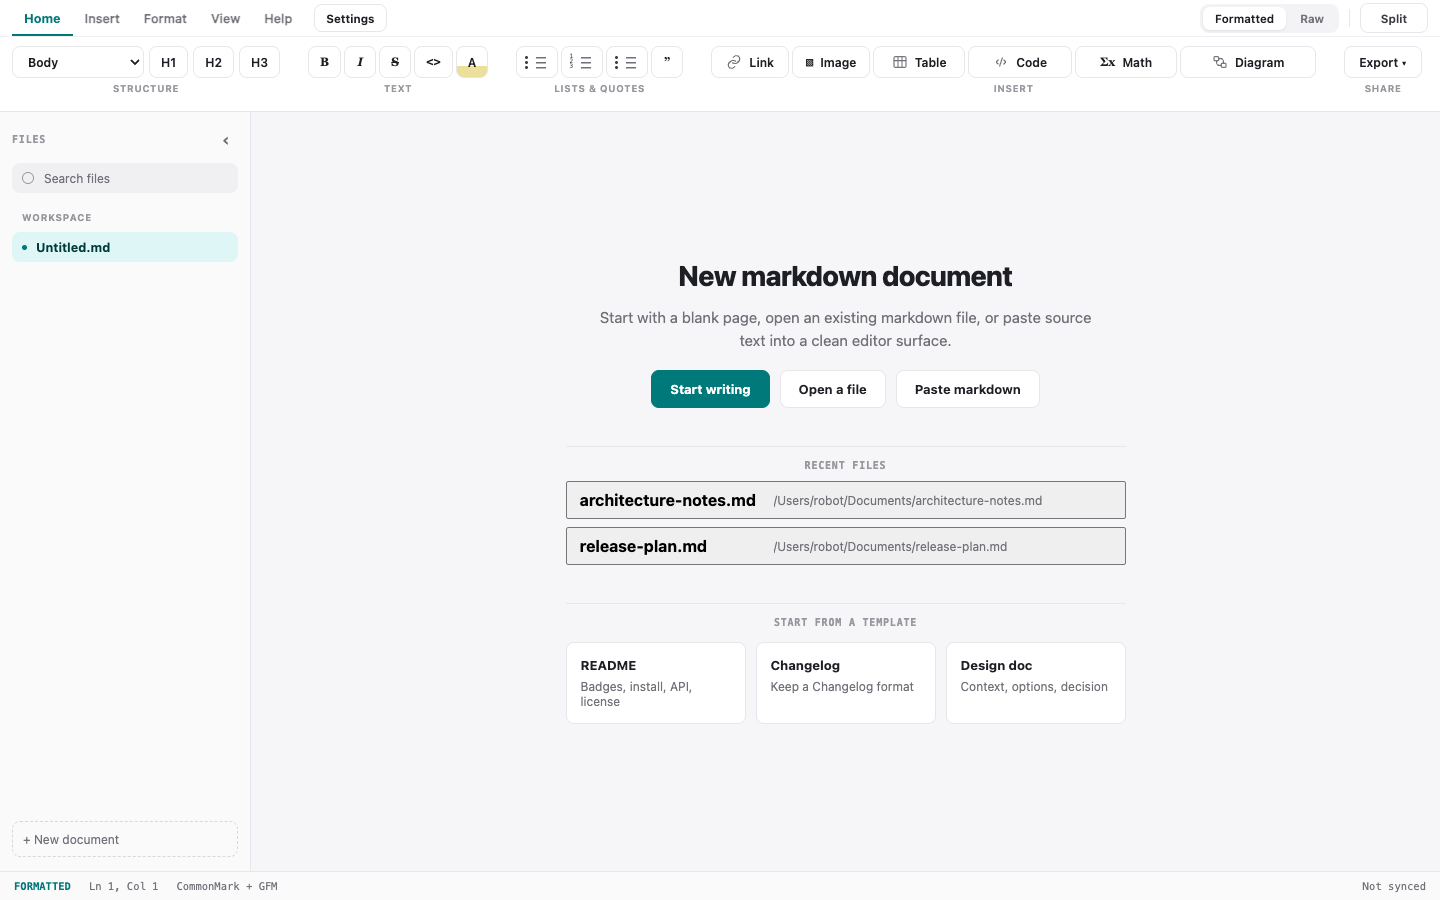
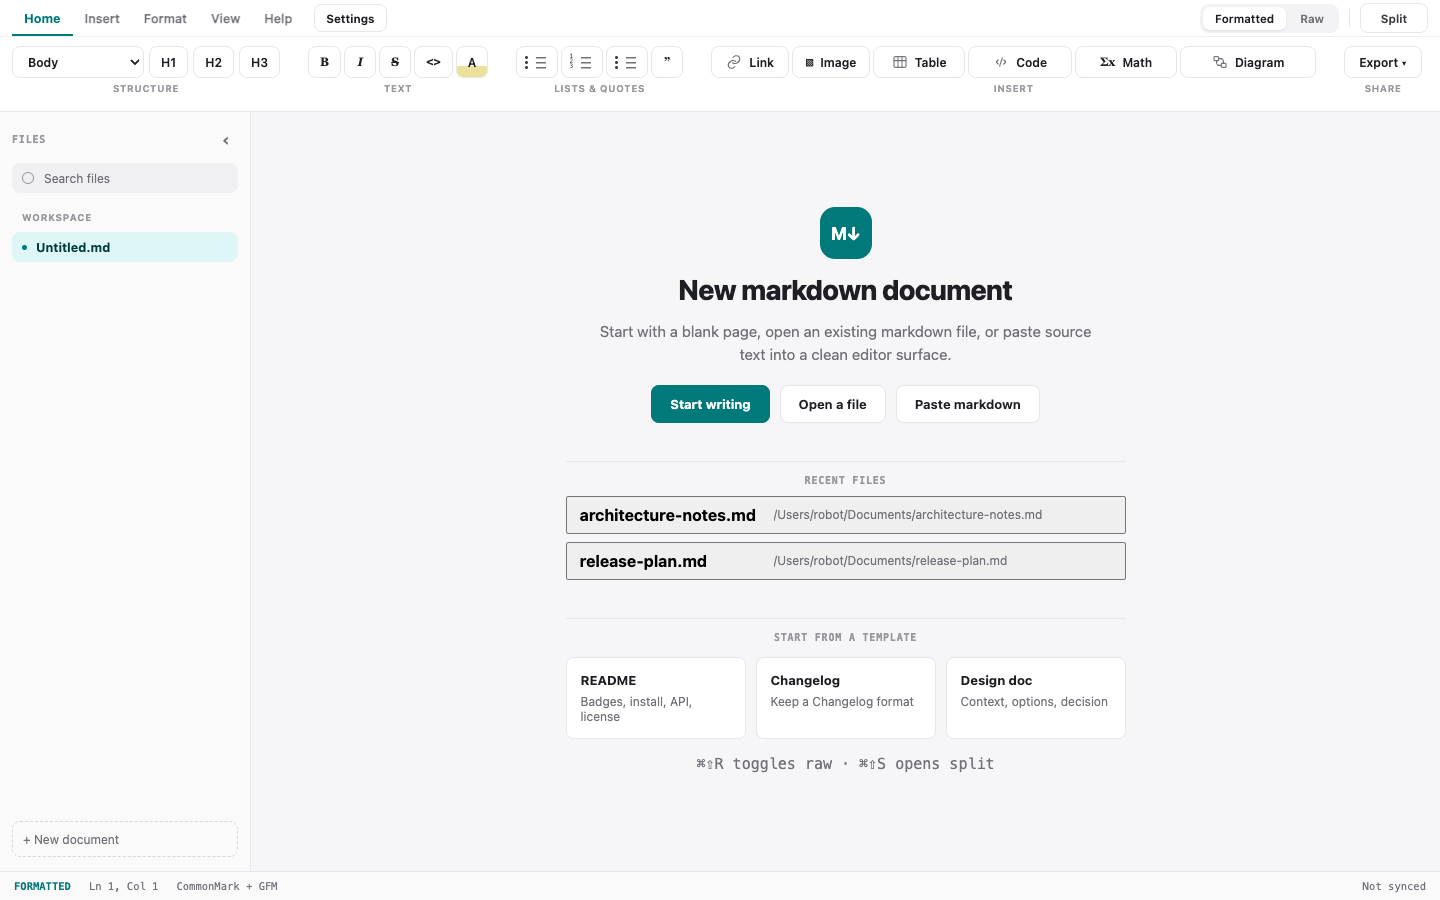
feat: restore the empty-state mark and shortcut hint
Closes #25.

The design brief specifies a 52px accent logo tile, an `Untitled.md`
heading, and a mono shortcut hint in the empty state. M3.7 Chrome Density
had removed all three, and TestEditorBoots asserted their absence as one
blanket rule.

Only one of the three was actually covered by M3.7's rationale. Its stated
boundary is that the native macOS window owns the application and document
NAME — so:

- Filename heading stays out. It genuinely duplicates the native title,
  which already reads "Dr. Markdown — <path>". The heading remains the
  generic "New markdown document".
- Logo tile restored. macOS shows no icon in the window title bar, so
  without it the running app has no visible identity anywhere. The
  .empty-logo CSS already existed and matched no element. Shows the M-down
  mark rather than "Dr." so it agrees with the Dock icon; the brief drew
  "Dr." against a mocked title bar that did not exist.
- Shortcut hint restored. The native title bar shows no shortcuts, so this
  is the only surface disclosing them. Verified against the real handlers
  before writing the text: ⌘⇧R toggles raw and ⌘⇧S opens split are both
  wired (⌘E is an alias for the former), so the hint is accurate rather
  than copied from the brief.

The blanket assertion is replaced by three separate ones, each failing
with its own reason. A single rule could not say which of the three it
meant, which is why removing the title bar took the other two with it.
[…]

diff --git a/frontend/dist/index.html b/frontend/dist/index.html
@@ -179,6 +179,7 @@
       <section id="document-region">
         <div id="contextual-controls-root"></div>
         <div id="empty-state">
+          <div class="empty-logo" aria-hidden="true">M&#8595;</div>
           <h1>New markdown document</h1>
           <p>Start with a blank page, open an existing markdown file, or paste source text into a clean editor surface.</p>
           <div class="empty-actions">
@@ -195,6 +196,7 @@
             <button type="button" data-template="changelog"><strong>Changelog</strong><span>Keep a Changelog format</span></button>
             <button type="button" data-template="design-doc"><strong>Design doc</strong><span>Context, options, decision</span></button>
           </div>
+          <p class="empty-shortcuts">&#8984;&#8679;R toggles raw &middot; &#8984;&#8679;S opens split</p>
         </div>
         <div id="editor-host">
           <div id="wysiwyg"></div>

diff --git a/frontend/dist/src/app.css b/frontend/dist/src/app.css
@@ -64,6 +64,10 @@ button:disabled {
   background: var(--panel);
 }
 
+/* The only place the app's mark appears while it is running: macOS shows no
+   icon in the window title bar, so without this the product has no visible
+   identity on screen. It is not the chrome M3.7 removed — that decision owns
+   the application and document NAME, which the empty state still omits. */
 .empty-logo {
   display: grid;
   place-items: center;
@@ -1163,6 +1167,15 @@ body.app-empty #editor-host {
   font: 700 10px/1 var(--mono);
   letter-spacing: 0.08em;
   text-transform: uppercase;
+}
+
+/* The bindings this hint names are the only discoverability surface for them
+   in the empty state. The native title bar shows no shortcuts, so this is not
+   the chrome duplication M3.7 removed. */
+.empty-shortcuts {
+  margin: 0;
+  color: var(--muted-2);
+  font: 500 11px/1 var(--mono);
 }
 
 .template-grid {

diff --git a/e2e/e2e_test.go b/e2e/e2e_test.go
@@ -158,15 +158,33 @@ func TestEditorBoots(t *testing.T) {
 	if !emptyStateVisible {
 		t.Error("app should launch to the in-canvas empty state")
 	}
-	var duplicatedEmptyChrome bool
+	// M3.7 Chrome Density removed the in-canvas title bar because the native
+	// macOS window owns the application and document NAME. That rationale
+	// covers the name and nothing else, so the three things the old blanket
+	// assertion lumped together are now asserted separately and for their own
+	// reasons — a single rule could not say which of them it meant.
+	var duplicatesDocumentTitle bool
 	evalJS(t, ctx, `(() => {
 		const empty = document.getElementById('empty-state')
-		return empty.querySelector('.empty-logo') !== null ||
-			Array.from(empty.querySelectorAll('h1')).some((node) => /^(Dr\. Markdown|Untitled\.md)$/.test(node.textContent.trim())) ||
-			empty.textContent.includes('⌘⇧R')
-	})()`, &duplicatedEmptyChrome)
-	if duplicatedEmptyChrome {
-		t.Error("empty state should not duplicate app chrome, document title, or shortcut instructions")
+		return Array.from(empty.querySelectorAll('h1')).some((node) => /^(Dr\. Markdown|Untitled\.md)$/.test(node.textContent.trim()))
+	})()`, &duplicatesDocumentTitle)
+	if duplicatesDocumentTitle {
+		t.Error("empty state must not repeat the application or document name; the native window title owns it (M3.7)")
+	}
+
+	var hasIdentityMark bool
+	evalJS(t, ctx, `document.querySelector('#empty-state .empty-logo') !== null`, &hasIdentityMark)
+	if !hasIdentityMark {
+		t.Error("empty state should carry the app mark: macOS shows no icon in the window title bar, so this is the only place it appears while running")
+	}
+
+	var hasShortcutHint bool
+	evalJS(t, ctx, `(() => {
+		const text = document.getElementById('empty-state').textContent
+		return text.includes('⌘⇧R') && text.includes('⌘⇧S')
+	})()`, &hasShortcutHint)
+	if !hasShortcutHint {
+		t.Error("empty state should name the raw and split shortcuts; the native title bar shows no shortcuts, so nothing else discloses them")
 	}
 	var emptyInspectorHidden bool
 	evalJS(t, ctx, `document.body.classList.contains('app-empty') &&
